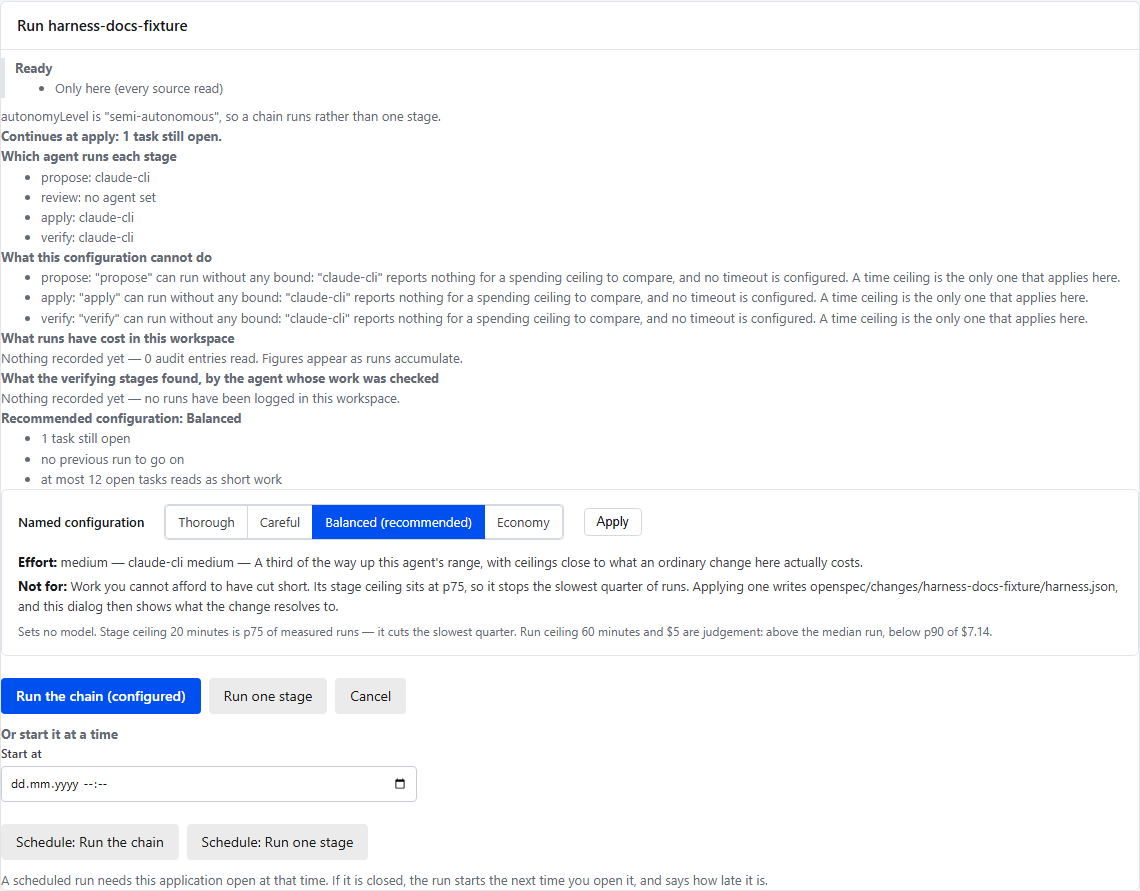
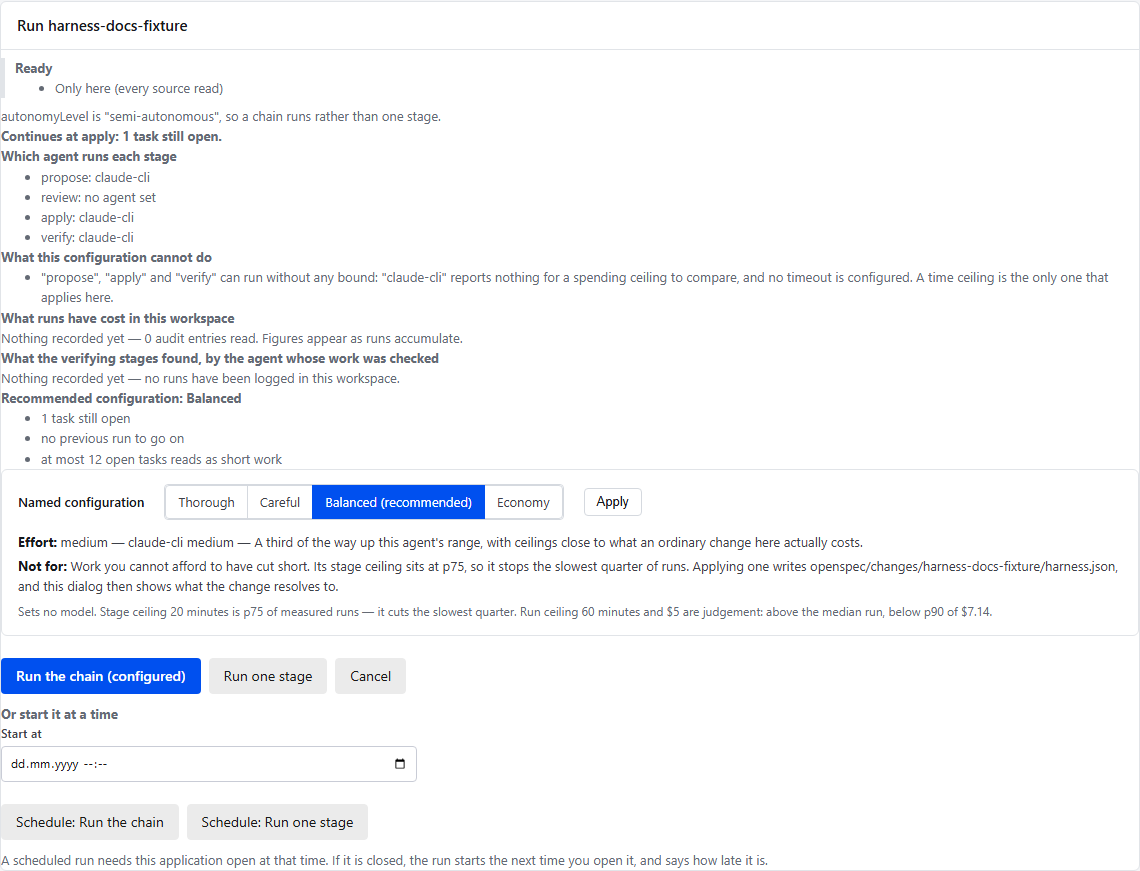
a-warning-is-said-once (#777)
* a-warning-is-said-once

Reported by a user with a screenshot of Harness settings: claude-cli on
every stage and a dollar budget gave four warning lines differing in one
word, "on "propose"", "on "review"" and so on, and the same four again in
the run dialog.

groupHarnessFindings in core says each thing once: findings of one kind
about one agent, whose words differ only in the stage they name, become
one sentence naming every stage in the order they run. The settings'
warning and the run dialog say the groups; a finding on one stage reads
as it did. findHarnessConfigLimits is unchanged for its other readers.

* a-warning-is-said-once: the run dialog picture after main's own change to it

Regenerated by the harness screenshots spec: it shows where the run
continues, from main, and the one grouped finding, from this change.

---------

diff --git a/packages/core/src/harness-config-findings.test.ts b/packages/core/src/harness-config-findings.test.ts
@@ -1,6 +1,66 @@
 import { describe, expect, it } from "vitest";
-import { findHarnessConfigLimits } from "./harness-config-findings.js";
+import { findHarnessConfigLimits, groupHarnessFindings } from "./harness-config-findings.js";
 import type { HarnessConfig } from "./harness-config.js";
+
+// a-warning-is-said-once: the user's own configuration, claude-cli on every
+// stage and a dollar budget, gave four lines differing in one word.
+describe("groupHarnessFindings", () => {
+  const everyStage = {
+    propose: "claude-cli",
+    review: "claude-cli",
+    apply: "claude-cli",
+    verify: "claude-cli",
+  } as const;
+
+  it("says one thing once, naming every stage it holds on", () => {
+    const findings = findHarnessConfigLimits({
+      stepAgents: everyStage,
+      autonomyLevel: "assisted",
+      reviewGate: { mode: "human-required" },
+      budget: { maxCostUsd: 5 },
+      timeout: { maxStageSeconds: 600 },
+    });
+
+    expect(findings).toHaveLength(4);
+    expect(groupHarnessFindings(findings)).toEqual([{
+      kind: "ceiling-cannot-act",
+      agent: "claude-cli",
+      stages: ["propose", "review", "apply", "verify"],
+      message: '"claude-cli" reports no usage at all, so no spending ceiling can act on "propose", "review", "apply" and "verify" however large the spend.',
+    }]);
+  });
+
+  it("keeps apart what differs in kind or in agent, in the order the stages run", () => {
+    const findings = findHarnessConfigLimits({
+      stepAgents: { propose: "claude-cli", review: "copilot-cli-acp", apply: "claude-cli" },
+      autonomyLevel: "assisted",
+      reviewGate: { mode: "human-required" },
+      budget: { maxCostUsd: 5 },
+    });
+
+    const groups = groupHarnessFindings(findings);
+
+    expect(groups.map((group) => [group.kind, group.agent, group.stages])).toEqual([
+      ["ceiling-cannot-act", "claude-cli", ["propose", "apply"]],
+      ["stage-unbounded", "claude-cli", ["propose", "apply"]],
+      ["ceiling-cannot-act", "copilot-cli-acp", ["review"]],
+    ]);
+    expect(groups[1]?.message).toBe(
+      '"propose" and "apply" can run without any bound: "claude-cli" reports nothing for a spending ceiling to compare, and no timeout is configured. A time ceiling is the only one that applies here.',
+    );
+  });
+
+  it("leaves a single finding's words as they were", () => {
+    const findings = findHarnessConfigLimits({
+      stepAgents: { apply: "copilot-cli-acp" },
+      autonomyLevel: "assisted",
+      reviewGate: { mode: "human-required" },
+      budget: { maxCostUsd: 5 },
+    });
+
+    expect(groupHarnessFindings(findings).map((group) => group.message)).toEqual(findings.map((finding) => finding.message));
+  });
+});
 
 // settings-say-what-they-cannot-do:
 // pure over an in-memory config — no files, no processes. Measured

diff --git a/packages/core/src/harness-config-findings.ts b/packages/core/src/harness-config-findings.ts
@@ -167,6 +167,49 @@ export function findHarnessConfigLimits(config: HarnessConfig): HarnessFinding[]
   return findings;
 }
 
+/** One thing a configuration cannot do, said once for every stage it
+ * holds on. */
+export interface HarnessFindingGroup {
+  kind: HarnessFindingKind;
+  agent: string;
+  /** The stages, in the order they run. */
+  stages: HarnessStage[];
+  /** The finding's own sentence, naming every stage in it. */
+  message: string;
+}
+
+/** Findings said once each: those of one kind, about one agent, whose words
+ * differ only in the stage they name, become one sentence naming all of
+ * them.
+ *
+ * Asked for by a user on 2026-09-24: an agent on every stage that reports
+ * no usage filled the warning with four lines differing in one word, "on
+ * \"propose\"", "on \"review\"", and so on, in the settings and again in the
+ * run dialog (a-warning-is-said-once). */
+export function groupHarnessFindings(findings: readonly HarnessFinding[]): HarnessFindingGroup[] {
+  const groups: Array<HarnessFindingGroup & { template: string }> = [];
+  for (const finding of findings) {
+    const template = finding.message.split(`"${finding.stage}"`).join(STAGE_SLOT);
+    const same = groups.find((group) => group.kind === finding.kind && group.agent === finding.agent && group.template === template);
+    if (same === undefined) {
+      groups.push({ kind: finding.kind, agent: finding.agent, stages: [finding.stage], message: finding.message, template });
+      continue;
+    }
+    same.stages.push(finding.stage);
+    same.message = template.split(STAGE_SLOT).join(listOfStages(same.stages));
+  }
+  return groups.map(({ kind, agent, stages, message }) => ({ kind, agent, stages, message }));
+}
+
+/** Where a stage's name stood in a finding's words; no finding writes it. */
+const STAGE_SLOT = "{{stage}}";
+
+/** "propose", "review" and "apply", each quoted as a finding quotes one. */
+function listOfStages(stages: readonly HarnessStage[]): string {
+  const quoted = stages.map((stage) => `"${stage}"`);
+  return quoted.length <= 1 ? (quoted[0] ?? "") : `${quoted.slice(0, -1).join(", ")} and ${quoted.at(-1) as string}`;
+}
+
 /** The default agent's label, for a surface that wants to say why an
  * unset stage produced no finding. */
 export const UNSET_STAGE_AGENT_LABEL = DEFAULT_AGENT_LABEL;

diff --git a/packages/core/src/browser.ts b/packages/core/src/browser.ts
@@ -138,7 +138,7 @@ export type {
 export type { ChangeDateEvidence, ChangeDateSource, ChangeDates, DatedFact } from "./change-dates.js";
 // Pure over a resolved config, with only type imports from the Node-side
 // modules — safe in the browser bundle, unlike harness-config.js itself.
-export { findHarnessConfigLimits } from "./harness-config-findings.js";
+export { findHarnessConfigLimits, groupHarnessFindings } from "./harness-config-findings.js";
 export { agentForEveryStageToWrite, changeTemplateConfigToWrite, HARNESS_TEMPLATES, stepAgentsForTemplate, templateConfigToWrite, templatesForScope } from "./harness-templates.js";
 export { HARNESS_EFFORT_LEVELS, effortLevelCollisions, resolveEffortLevel } from "./harness-effort-level.js";
 export type { HarnessEffortLevel, ResolvedEffort } from "./harness-effort-level.js";
@@ -153,7 +153,7 @@ export { agentForChosenPath, buildRunPlan, describeRunStart, runStartFactsFrom, 
 export type { RunPath, RunPathId, RunPlan, RunPlanHost, RunStartFacts, RunStartStage } from "./run-plan.js";
 export type { HarnessRecommendation, RecommendationInput } from "./harness-recommendation.js";
 export type { HarnessTemplate, HarnessTemplateScope } from "./harness-templates.js";
-export type { HarnessFinding, HarnessFindingKind } from "./harness-config-findings.js";
+export type { HarnessFinding, HarnessFindingGroup, HarnessFindingKind } from "./harness-config-findings.js";
 export type {
   HarnessAutonomyLevel,
   HarnessBudget,

diff --git a/packages/webui/src/components/GlobalHarnessSettingsView.test.tsx b/packages/webui/src/components/GlobalHarnessSettingsView.test.tsx
@@ -229,6 +229,27 @@ describe("GlobalHarnessSettingsView — what the configuration cannot do", () =>
     expect(screen.getByTestId("harness-findings").textContent).toContain("will be saved");
   });
 
+  // a-warning-is-said-once: a user's four lines, differing in one word.
+  it("says what holds on every stage once, naming the stages", async () => {
+    const api = createApi({
+      resolveGlobal: vi.fn().mockResolvedValue({
+        stepAgents: { propose: "claude-cli", review: "claude-cli", apply: "claude-cli", verify: "claude-cli" },
+        autonomyLevel: "assisted",
+        reviewGate: { mode: "human-required" },
+        budget: { maxCostUsd: 5 },
+        timeout: { maxStageSeconds: 600 },
+      }),
+    });
+    render(<GlobalHarnessSettingsView api={api} />);
+
+    await waitFor(() => expect(screen.getByTestId("harness-findings")).toBeTruthy());
+    const lines = screen.getByTestId("harness-findings").querySelectorAll("li");
+    expect(lines).toHaveLength(1);
+    expect(screen.getByTestId("harness-finding-propose-review-apply-verify").textContent).toBe(
+      '"claude-cli" reports no usage at all, so no spending ceiling can act on "propose", "review", "apply" and "verify" however large the spend.',
+    );
+  });
+
   it("renders nothing when every configured ceiling can act", async () => {
     const api = createApi({
       resolveGlobal: vi.fn().mockResolvedValue({

diff --git a/packages/webui/src/components/harness-settings-parts.tsx b/packages/webui/src/components/harness-settings-parts.tsx
@@ -3,6 +3,7 @@ import {
   AGENT_REGISTRY,
   autonomyLevelsFor,
   customAgentFamilyFor,
+  groupHarnessFindings,
   HARNESS_AGENT_CAPABILITIES,
   isHarnessStepAgentStage,
   normalizeStepAgent,
@@ -672,9 +673,11 @@ export function HarnessFindingsPanel({ findings }: { findings: readonly HarnessF
       <div className="openspec-callout-body">
         <h3>What this configuration cannot do</h3>
         <ul>
-          {findings.map((finding) => (
-            <li key={`${finding.kind}:${finding.stage}`} data-testid={`harness-finding-${finding.stage}`}>
-              {finding.message}
+          {/* Said once each, naming every stage it holds on: four lines that
+              differed in one word read as four problems (a-warning-is-said-once). */}
+          {groupHarnessFindings(findings).map((group) => (
+            <li key={`${group.kind}:${group.agent}:${group.stages.join("-")}`} data-testid={`harness-finding-${group.stages.join("-")}`}>
+              {group.message}
             </li>
           ))}
         </ul>

diff --git a/packages/webui/src/components/RunDialog.tsx b/packages/webui/src/components/RunDialog.tsx
@@ -1,6 +1,7 @@
 import { useEffect, useRef, useState } from "react";
 import {
   checkScheduleTime,
+  groupHarnessFindings,
   resolveEffortLevel,
   type ChangeStateKey,
   type DescribedChangeState,
@@ -200,8 +201,10 @@ export function RunDialog(
       <p className="openspec-shell-note"><strong>What this configuration cannot do</strong></p>
       {plan.findings.length > 0 ? (
         <ul className="openspec-shell-note" data-testid="run-dialog-findings">
-          {plan.findings.map((finding) => (
-            <li key={`${finding.kind}-${finding.stage}`}>{finding.stage}: {finding.message}</li>
+          {/* Said once each, naming every stage it holds on
+              (a-warning-is-said-once). */}
+          {groupHarnessFindings(plan.findings).map((group) => (
+            <li key={`${group.kind}-${group.agent}-${group.stages.join("-")}`}>{group.message}</li>
           ))}
         </ul>
       ) : (

diff --git a/openspec/changes/a-warning-is-said-once/specs/agentic-harness/spec.md b/openspec/changes/a-warning-is-said-once/specs/agentic-harness/spec.md
@@ -1,0 +1,75 @@
+## MODIFIED Requirements
+
+### Requirement: A configuration says which of its ceilings cannot act
+
+Where a configured ceiling cannot act on the agent chosen for a stage,
+the editor SHALL say so where the configuration is chosen, before a run.
+
+A ceiling that cannot fire is indistinguishable from one that has not
+fired yet, and the difference is discovered otherwise only by a bill.
+
+Where a stage's agent reports nothing and no time ceiling is configured,
+the editor SHALL report that the stage can run without any bound. This is
+the finding that matters most, because it is the one with no upper
+limit at all.
+
+Where a chain ceiling is set in a unit that no stage's agent is billed
+in, or that only agents reporting nothing are billed in, the editor SHALL
+report that ceiling as one that cannot act, naming the unit.
+
+A configuration SHALL NOT be refused for this. An operator may knowingly
+set a ceiling that binds some stages and not others; that judgement is
+theirs, and refusing would trade a real use for it.
+
+The report SHALL say each thing once. Findings of one kind about one
+agent, whose words differ only in the stage they name, SHALL be said as
+one sentence naming every stage they hold on, in the order the stages run,
+wherever findings are shown: in the settings and in the run dialog. An
+agent on every stage that reports nothing gave four lines differing in one
+word, which read as four problems (reported by a user on 2026-09-24).
+
+The report SHALL state what cannot happen and SHALL NOT recommend a
+value. What cannot act follows from what an agent reports; what to set
+instead needs history the editor does not consult here.
+
+#### Scenario: A cost ceiling over an agent that reports no cost
+
+- **WHEN** a cost ceiling is configured and a stage's agent reports only
+  tokens
+- **THEN** the editor reports that this ceiling cannot act on that stage
+
+#### Scenario: A stage with no bound at all
+
+- **WHEN** a stage's agent reports nothing and no time ceiling is set
+- **THEN** the editor reports that the stage can run without any bound
+
+#### Scenario: An agent never observed
+
+- **WHEN** a stage uses an agent whose reporting has never been observed
+- **THEN** the editor says so, rather than asserting that a ceiling will
+  or will not act
+
+#### Scenario: The configuration is still accepted
+
+- **WHEN** a configuration contains a ceiling that cannot act
+- **THEN** it is accepted, and the report is a statement rather than a
+  refusal
+
+#### Scenario: A ceiling in a unit nothing is billed in
+
+- **WHEN** the chain's budget sets a ceiling in a unit that no stage's
+  agent is billed in
+- **THEN** the editor reports that ceiling as one that cannot act, naming
+  the unit
+
+#### Scenario: The same finding on every stage
+
+- **WHEN** every stage runs an agent that reports no usage, and a dollar
+  ceiling is set
+- **THEN** one sentence says that no spending ceiling can act on
+  "propose", "review", "apply" and "verify"
+
+#### Scenario: Findings that differ
+
+- **WHEN** two stages' findings differ in kind or in agent
+- **THEN** each is said on its own

diff --git a/openspec/changes/a-warning-is-said-once/tasks.md b/openspec/changes/a-warning-is-said-once/tasks.md
@@ -1,0 +1,33 @@
+Reported by a user on 2026-09-24: four warning lines differing in one
+word, in the settings and again in the run dialog.
+
+## 1. Said once
+
+- [x] 1.1 `groupHarnessFindings` in core: one kind, one agent, the same
+  words but for the stage, said as one sentence naming every stage.
+- [x] 1.2 The settings' warning and the run dialog say the groups; one
+  stage's finding reads as it did.
+
+## 2. Checks
+
+- [x] 2.1 Tests: the user's own configuration giving four findings and one
+  sentence; findings that differ in kind or agent kept apart, in stage
+  order; a single finding's words unchanged; the settings view drawing one
+  line for four stages.
+- [x] 2.2 Live, in the standalone: the settings and the run dialog for
+  claude-cli on every stage with a dollar budget, one line each.
+  2026-09-25, this worktree with that harness written for the check and
+  restored after it: Harness settings and the run dialog each said one line,
+  "no spending ceiling can act on "propose", "review", "apply" and
+  "verify" however large the spend.".
+- [x] 2.3 `npm run typecheck && npm run lint && npm run test` at the root,
+  after `git add`, run unpiped, exit code 0. Typecheck 0, lint 0, test 0
+  (core 1912, server 493, extension 116, webui 670).
+- [x] 2.4 The extension's integration suite, and the whole standalone
+  browser suite; the regenerated pictures that show a warning kept.
+  Integration: 19 passing. Browser: 29 of 29. Kept `run-dialog.png`, whose
+  three unbounded-stage lines are now one; the settings pictures show a
+  single finding, unchanged, and were left out.
+- [x] 2.5 `openspec validate a-warning-is-said-once --strict`, and the merge
+  gate locally with `--base origin/main`. Validate: valid; the gate exit 0.
+- [x] 2.6 A changeset: core, webui, the server and the extension, patch.

diff --git a/openspec/changes/a-warning-is-said-once/proposal.md b/openspec/changes/a-warning-is-said-once/proposal.md
@@ -1,0 +1,48 @@
+## Why
+
+Reported by a user on 2026-09-24, with a screenshot of Harness settings:
+claude-cli on every stage and a $5 budget gave
+
+- "claude-cli" reports no usage at all, so no spending ceiling can act on
+  "propose" however large the spend.
+- ... on "review" ...
+- ... on "apply" ...
+- ... on "verify" ...
+
+and the same four again in the run dialog. "A lot of repetitions when it
+all is down to claude-cli not reporting spend." Four lines differing in
+one word read as four problems; there is one.
+
+## What Changes
+
+- `groupHarnessFindings` in core: findings of one kind about one agent,
+  whose words differ only in the stage they name, become one sentence
+  naming every stage, in the order the stages run: "... can act on
+  "propose", "review", "apply" and "verify" however large the spend."
+- The settings' warning and the run dialog say the groups. A finding that
+  holds on one stage reads as it did.
+- `findHarnessConfigLimits` is unchanged: its per-stage findings are what
+  the CLI's checks and other readers use.
+
+## Capabilities
+
+### New Capabilities
+
+(none)
+
+### Modified Capabilities
+
+- `agentic-harness` - findings are said once each.
+
+## Impact
+
+- `packages/core/src/harness-config-findings.ts` and its test; the
+  browser entry exports the grouping.
+- `packages/webui/src/components/harness-settings-parts.tsx` and
+  `RunDialog.tsx`, with a settings view test.
+- One requirement in `openspec/specs/agentic-harness/spec.md`.
+
+## Explicitly out of scope
+
+- **The CLI's `doctor` and `validate` output.** A terminal line per stage is
+  what a script greps; left as it is.

diff --git a/.changeset/a-warning-is-said-once.md b/.changeset/a-warning-is-said-once.md
@@ -1,0 +1,12 @@
+---
+"@openspec-ui/core": patch
+"@openspec-ui/webui": patch
+"@openspec-ui/server": patch
+"openspec-ui-vscode": patch
+---
+
+What a configuration cannot do is said once. The same finding on several
+stages, such as an agent that reports no usage on all four, was four lines
+differing in one word, in Harness settings and again in the run dialog; it
+is now one sentence naming every stage: "no spending ceiling can act on
+"propose", "review", "apply" and "verify"".
